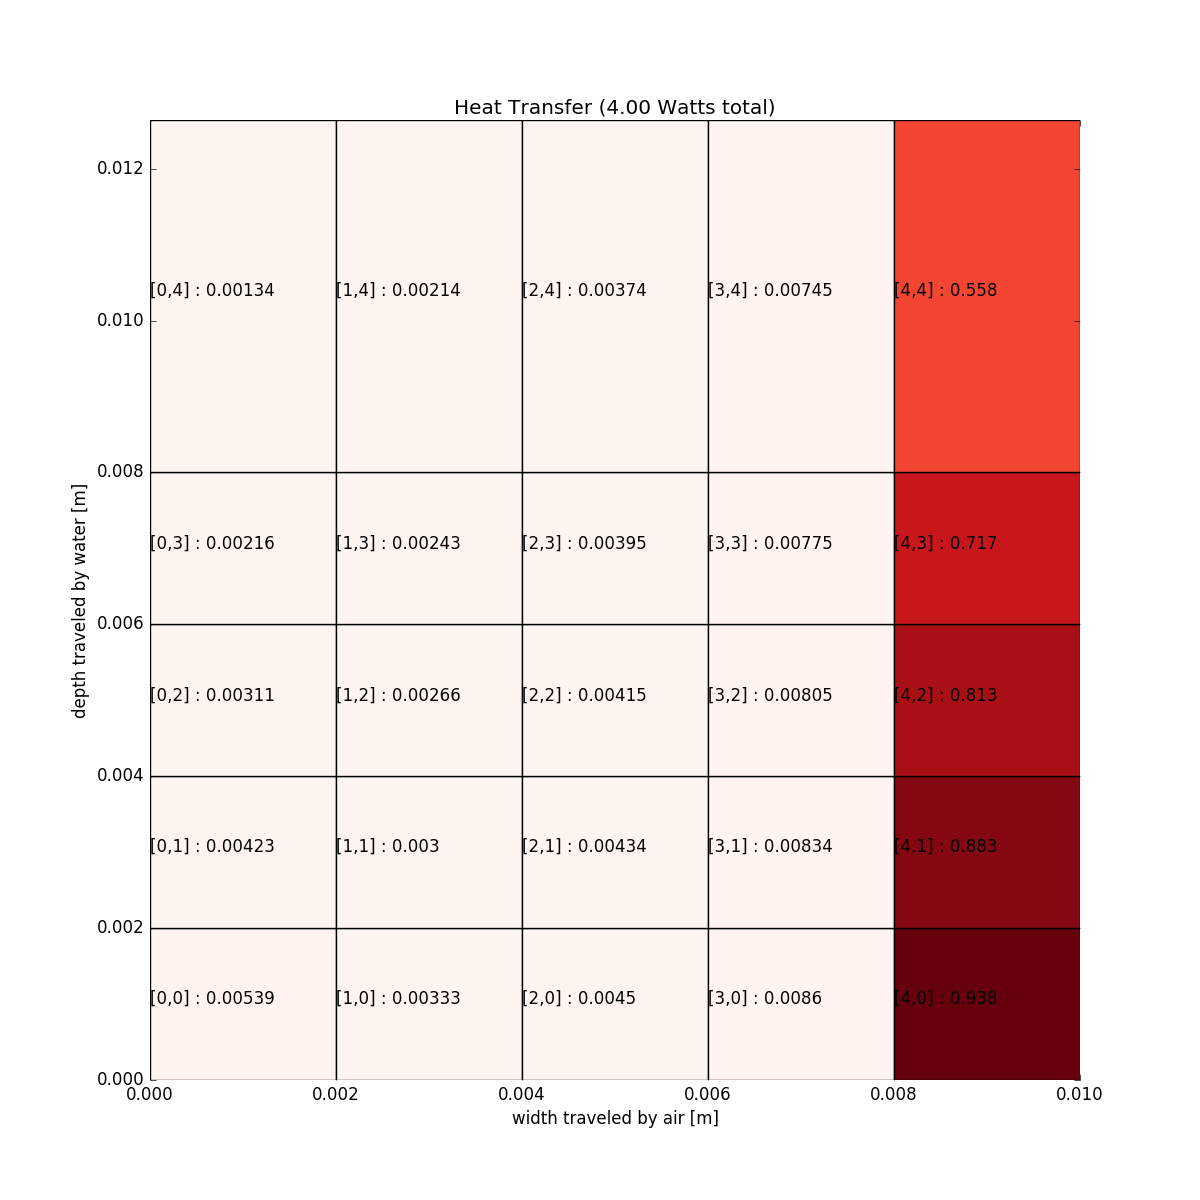
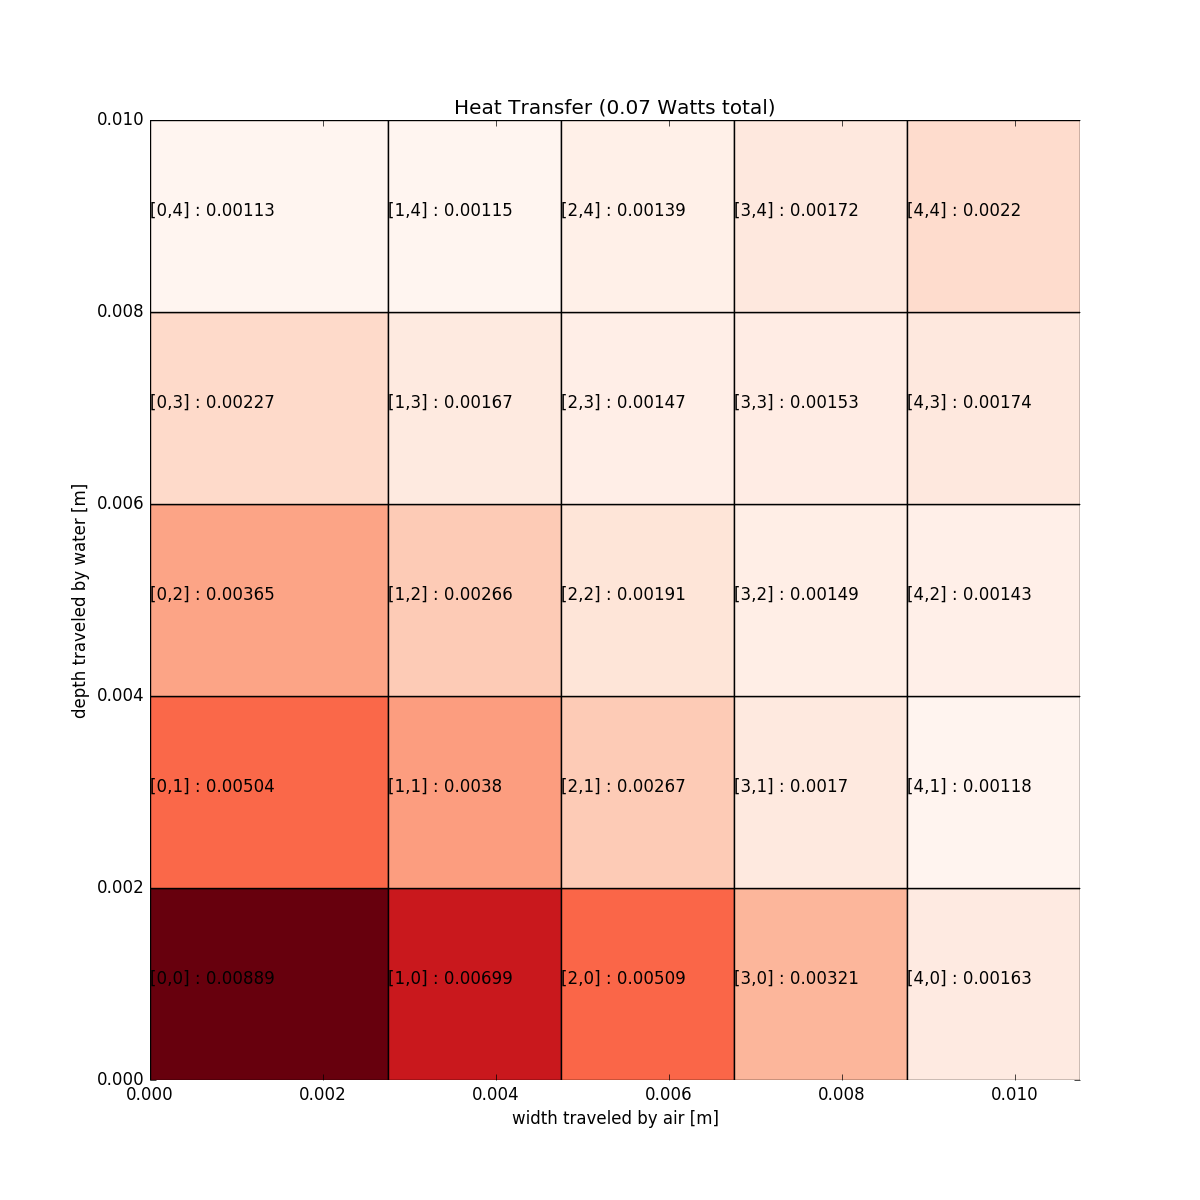
Relaxed_constants no longer required.

diff --git a/heatexchanger/cellplot.py b/heatexchanger/cellplot.py
@@ -2,9 +2,10 @@ from matplotlib.pyplot import *
 import numpy as np
 from mpl_toolkits.mplot3d import Axes3D
 
+
 def nsf(num, n=1):
     """n-Significant Figures"""
-    numstr = ("{0:.%ie}" % (n-1)).format(num)
+    numstr = ("{0:.%ie}" % (n - 1)).format(num)
     return float(numstr)
 
 
@@ -12,27 +13,27 @@ def plot_cells(m, Z, cm=cm.RdBu_r, verbosity=0, zscale=None, zoff=None):
     "Plots a given array for every heat-exchange cell"
     f, a = subplots(figsize=(12, 12))
     sol = m.solution
-    Nwaterpipes = m.original.Nwaterpipes
-    Nairpipes = m.original.Nairpipes
+    Nwaterpipes = m.Nwaterpipes
+    Nairpipes = m.Nairpipes
     Zmin, Zmax = Z.min(), Z.max()
     dpos = 0
     for i in range(Nwaterpipes):
         wpos = 0
         for j in range(Nairpipes):
-            wcell = sol(m.original.airpipes.w)[j].magnitude
-            dcell = sol(m.original.waterpipes.w)[i].magnitude
+            wcell = sol(m.airpipes.w)[j].magnitude
+            dcell = sol(m.waterpipes.w)[i].magnitude
             if not zscale:
-                z = ((Z[j, i] - Zmin)/(Zmax-Zmin)).magnitude
+                z = ((Z[j, i] - Zmin) / (Zmax - Zmin)).magnitude
             else:
-                z = (Z[j, i].magnitude - zoff)/zscale
+                z = (Z[j, i].magnitude - zoff) / zscale
             r = Rectangle((dpos, wpos), dcell, wcell, facecolor=cm(z))
             if verbosity:
-                labelx, labely = dpos, wpos + wcell/2
+                labelx, labely = dpos, wpos + wcell / 2
                 label = "%.3g" % Z[j, i].magnitude
                 if verbosity > 1:
                     label = "[%i,%i] : " % (i, j) + label
                 else:
-                    labelx += 0.4*dcell
+                    labelx += 0.4 * dcell
                 a.text(labelx, labely, label)
             wpos += wcell
             a.add_patch(r)
@@ -44,17 +45,18 @@ def plot_cells(m, Z, cm=cm.RdBu_r, verbosity=0, zscale=None, zoff=None):
     a.set_ylabel("depth traveled by water [m]")
     return f, a
 
+
 def hist_cells(m, Z, cm=cm.RdBu_r, verbosity=0, zscale=None, zoff=None):
     "Plots a given array for every heat-exchange cell"
     sol = m.solution
-    Nwaterpipes = m.original.Nwaterpipes
-    Nairpipes = m.original.Nairpipes
+    Nwaterpipes = m.Nwaterpipes
+    Nairpipes = m.Nairpipes
     Zmin, Zmax = Z.min(), Z.max()
     dpos = 0
 
     fig = plt.figure()
     ax = fig.add_subplot(111, projection='3d')
-    #x = 
+    # x =
 
     # Construct arrays for the anchor positions of the 16 bars.
     # Note: np.meshgrid gives arrays in (ny, nx) so we use 'F' to flatten xpos,
@@ -64,7 +66,6 @@ def hist_cells(m, Z, cm=cm.RdBu_r, verbosity=0, zscale=None, zoff=None):
     xpos = xpos.flatten('F')
     ypos = ypos.flatten('F')
     zpos = np.zeros_like(xpos)
-
 
     ylim([0, wpos])
     xlim([0, dpos])
@@ -77,39 +78,41 @@ def hist_cells(m, Z, cm=cm.RdBu_r, verbosity=0, zscale=None, zoff=None):
 if __name__ == "__main__":
     from layer import Layer
     Nw, Na = 5, 5
-    print sol(m.original.c.dQ).min(), 0.625/Nw/Na
+    print sol(m.c.dQ).min(), 0.625 / Nw / Na
 
     # Liquid temperature
-    f, a = plot_cells(m, sol(m.original.c.T_hot), cm=cm.Reds, zscale=1/Nw/Na, zoff=0.625/Nw/Na, verbosity=2)
+    f, a = plot_cells(m, sol(m.c.T_hot), cm=cm.Reds,
+                      zscale=1 / Nw / Na, zoff=0.625 / Nw / Na, verbosity=2)
     a.set_title("Liquid Temperature [K]")
     f.savefig("plots/T_liq.png")
 
     # Air temperature
-    f, a = plot_cells(m, sol(m.original.c.T_cld), cm=cm.Blues, zscale=1/Nw/Na, zoff=0.625/Nw/Na, verbosity=2)
+    f, a = plot_cells(m, sol(m.c.T_cld), cm=cm.Blues,
+                      zscale=1 / Nw / Na, zoff=0.625 / Nw / Na, verbosity=2)
     a.set_title("Air Temperature [K]")
     f.savefig("plots/T_air.png")
 
     # Heat transfer
-    Q = sol(m.original.Q).magnitude
-    f, a = plot_cells(m, sol(m.original.c.dQ), cm=cm.Reds, zscale=1/Nw/Na, zoff=0.625/Nw/Na, verbosity=2)
+    Q = sol(m.Q).magnitude
+    f, a = plot_cells(m, sol(m.c.dQ), cm=cm.Reds,
+                      zscale=1 / Nw / Na, zoff=0.625 / Nw / Na, verbosity=2)
     a.set_title("Heat Transfer (%.2f Watts total)" % Q)
     f.savefig("plots/dQ.png")
 
     # Water velocity in each cell
-    f, a = plot_cells(m, sol(m.original.waterpipes.v_avg), cm=cm.Blues, zscale=1/Nw/Na, zoff=0.625/Nw/Na, verbosity=2)
+    f, a = plot_cells(m, sol(m.waterpipes.v_avg), cm=cm.Blues,
+                      zscale=1 / Nw / Na, zoff=0.625 / Nw / Na, verbosity=2)
     a.set_title("Average velocity in water cell")
     f.savefig("plots/waterV.png")
 
     # Air velocity in each cell
-    f, a = plot_cells(m, sol(m.original.airpipes.v_avg).T, cm=cm.Reds, zscale=1/Nw/Na, zoff=0.625/Nw/Na, verbosity=2)
+    f, a = plot_cells(m, sol(m.airpipes.v_avg).T, cm=cm.Reds,
+                      zscale=1 / Nw / Na, zoff=0.625 / Nw / Na, verbosity=2)
     a.set_title("Average velocity in air cell")
     f.savefig("plots/airV.png")
 
     # Wall temperature
-    f, a = plot_cells(m, sol(m.original.c.T_r), cm=cm.Reds, zscale=1/Nw/Na, zoff=0.625/Nw/Na, verbosity=2)
+    f, a = plot_cells(m, sol(m.c.T_r), cm=cm.Reds,
+                      zscale=1 / Nw / Na, zoff=0.625 / Nw / Na, verbosity=2)
     a.set_title("Mean wall temperature (K)")
     f.savefig("plots/Tr.png")
-
-
-
-

diff --git a/heatexchanger/layer.py b/heatexchanger/layer.py
@@ -3,7 +3,7 @@ from gpkit.constraints.bounded import Bounded
 from materials import Air, Water, StainlessSteel
 from hxarea import HXArea
 from rectpipe import RectangularPipe
-from relaxed_constants import relaxed_constants
+from relaxed_constants import relaxed_constants, post_process
 import numpy as np
 
 
@@ -54,7 +54,8 @@ class Layer(Model):
             for i in range(Nwaterpipes):
                 waterCf.extend([waterpipes.D[i] >= waterpipes.fr[i]*waterpipes.A_seg[i,0],
                                 waterpipes.fr[i] >= waterpipes.dP[i,:].sum(),
-                                waterpipes.dP_scale[0] == waterpipes.dP_scale[i]])
+                                #waterpipes.dP_scale[0] == waterpipes.dP_scale[i]
+                                ])
                 for j in range(Nairpipes):
                     waterCf.extend([waterpipes.l[i,j] <= sum(airpipes.w[0:j+1]),
                                     waterpipes.dP[i,j] >= waterpipes.dP_scale[i]*0.5*water.rho*waterpipes.v_avg[i,j]**2*waterpipes.Cf[i,j]*waterpipes.l_seg[i,j]/waterpipes.dh[i,j],
@@ -62,7 +63,8 @@ class Layer(Model):
             for i in range(Nairpipes):
                 airCf.extend([airpipes.D[i] >= airpipes.fr[i]*airpipes.A_seg[i,0],
                               airpipes.fr[i] >= airpipes.dP[i,:].sum(),
-                              airpipes.dP_scale[0] == airpipes.dP_scale[i]])
+                              #airpipes.dP_scale[0] == airpipes.dP_scale[i]
+                              ])
                 for j in range(Nwaterpipes):
                     airCf.extend([airpipes.l[i,j] <= sum(waterpipes.w[0:j+1]),
                                   airpipes.dP[i,j] >= airpipes.dP_scale[i]*0.5*air.rho*airpipes.v_avg[i,j]**2*airpipes.Cf[i,j]*airpipes.l_seg[i,j]/airpipes.dh[i,j],
@@ -70,13 +72,13 @@ class Layer(Model):
 
         geom = [V_tot >= sum(sum(waterpipes.V_seg)) + sum(sum(airpipes.V_seg))]
 
-        # Arbitrary bounding for convergence.
         for i in range(Nwaterpipes):
             for j in range(Nairpipes):
                 geom.extend([c.x_cell[i,j] == waterpipes.w[i],
                              c.x_cell[i,j] == airpipes.l_seg[j,i],
                              c.y_cell[i,j] == airpipes.w[j],
                              c.y_cell[i,j] == waterpipes.l_seg[i,j],
+                             # Arbitrary bounding for convergence.
                              c.x_cell[i,j] >= 0.2*units('cm'),
                              c.y_cell[i,j] >= 0.2*units('cm'),
                              ])
@@ -112,7 +114,6 @@ class Layer(Model):
             airCf,
 
             # HEAT EXCHANGE REQUIREMENT
-            Q >= 4*units('W'),
 
             # TOTAL VOLUME REQUIREMENT
             V_tot <= 1*units('cm^3'),
@@ -128,6 +129,7 @@ if __name__ == "__main__":
     penalties = (m.waterpipes.dP_scale.prod()*m.airpipes.dP_scale.prod()*m.waterpipes.dT.prod()*m.airpipes.dT.prod())**-1
     m.cost = penalties*1*m.Q**-1*(1*m.waterpipes.D.sum()+ 1*m.airpipes.D.sum())
     #m = Model(m.cost,Bounded(m))
-    m = relaxed_constants(m)
+    #m = relaxed_constants(m)
     sol = m.localsolve(verbosity=4)
+    post_process(sol)
     print sol('Q')

diff --git a/heatexchanger/rectpipe.py b/heatexchanger/rectpipe.py
@@ -63,7 +63,6 @@ class RectangularPipe(Model):
 
         exec parse_variables(RectangularPipe.__doc__)
         self.increasingT = increasingT
-        self.T_out = T[-1]
         if increasingT:
             with SignomialsEnabled():
                 temp = [T[1:] >= T[:-1] + dT,
@@ -87,7 +86,7 @@ class RectangularPipe(Model):
                         fr == Pf*(0.5*fluid.rho*v_in**2),  # force per frontal area
                         P0[0] <= P_in + 0.5*fluid.rho*v_in**2, # inlet total pressure
                         P0[-1] >= P_out + 0.5*fluid.rho*v_out**2, # exit total pressure 
-                        P0[0] >= P0[-1] + 0.5*fluid.rho*v_out**2*Pf + 0.5*fluid.rho*v_in**2,
+                        P0[0] >= P0[-1] + 0.5*fluid.rho*v_in**2*Pf,
                         P0[:-1] >= P0[1:] + dP,
                         dP <= fluid.rho*v[0:-1]*(v[0:-1] - v[1:]),
                         # effectiveness fit
@@ -100,7 +99,7 @@ class RectangularPipe(Model):
         return [
             fluid, temp, 
             pressure,
-            T[0] == T_in,
+            T[0] == T_in, 
             mdot == fluid.rho*v_avg*A_seg,
             A_seg == w*h_seg,
             V_seg == A_seg*l_seg,
